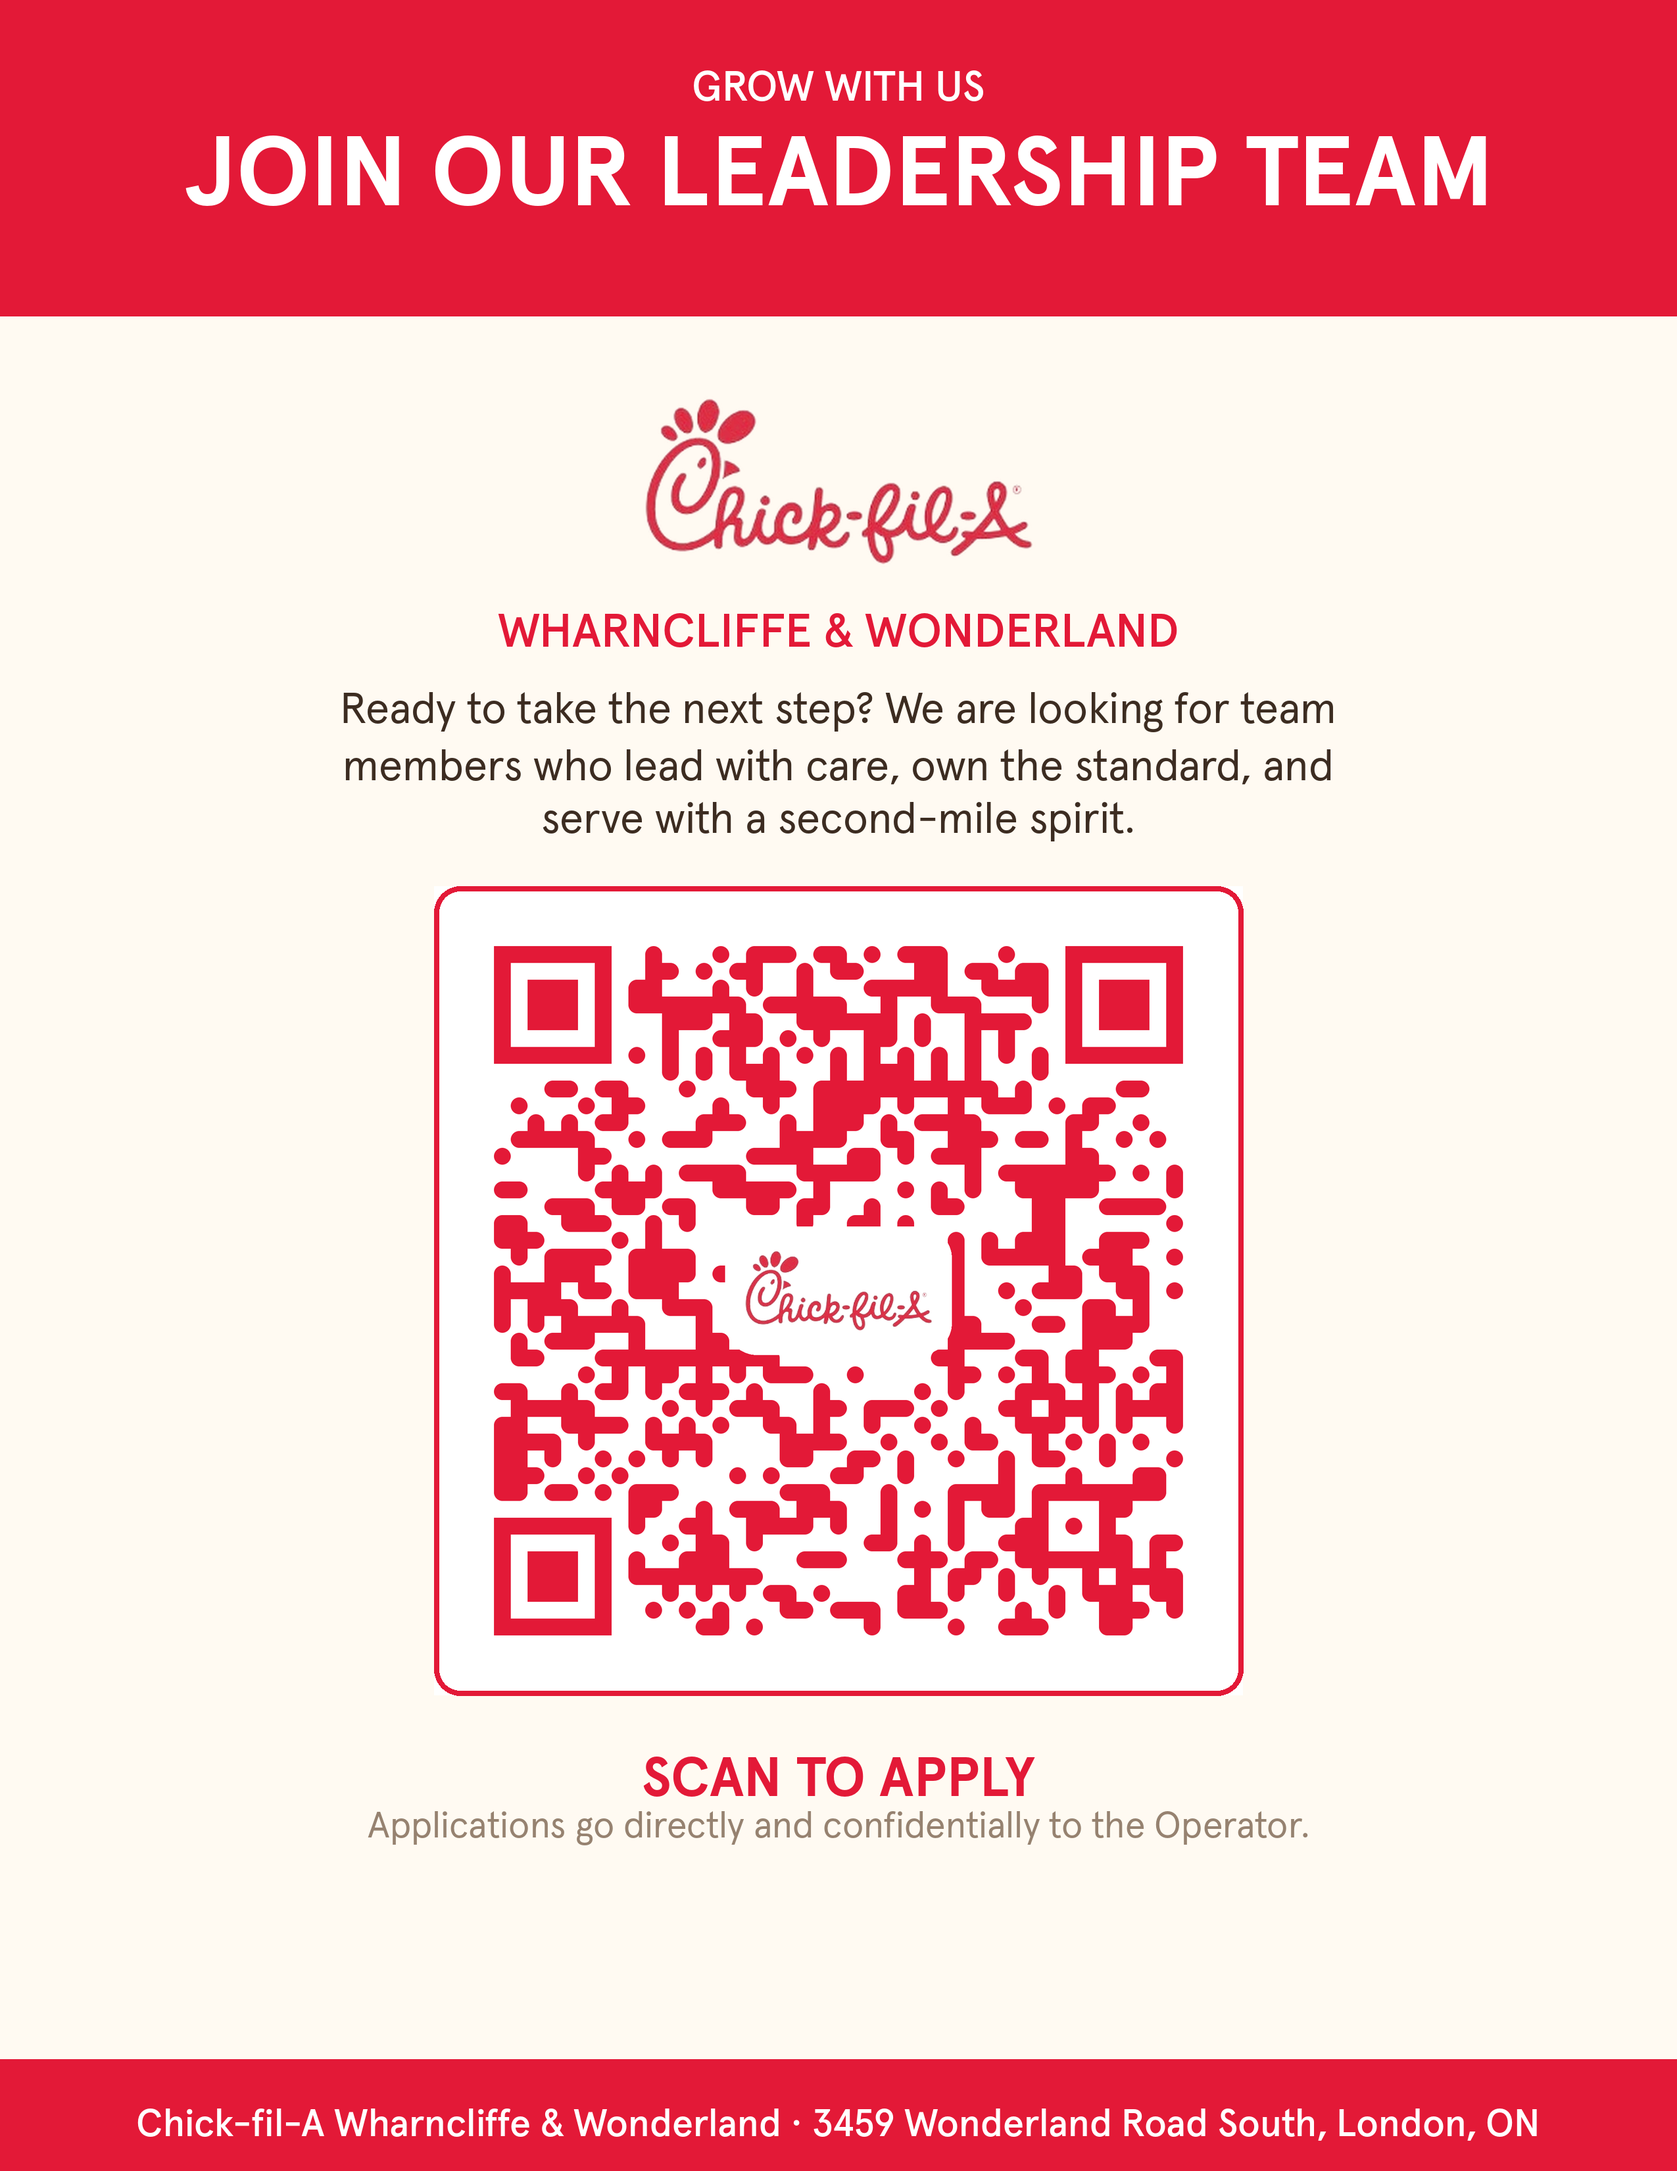
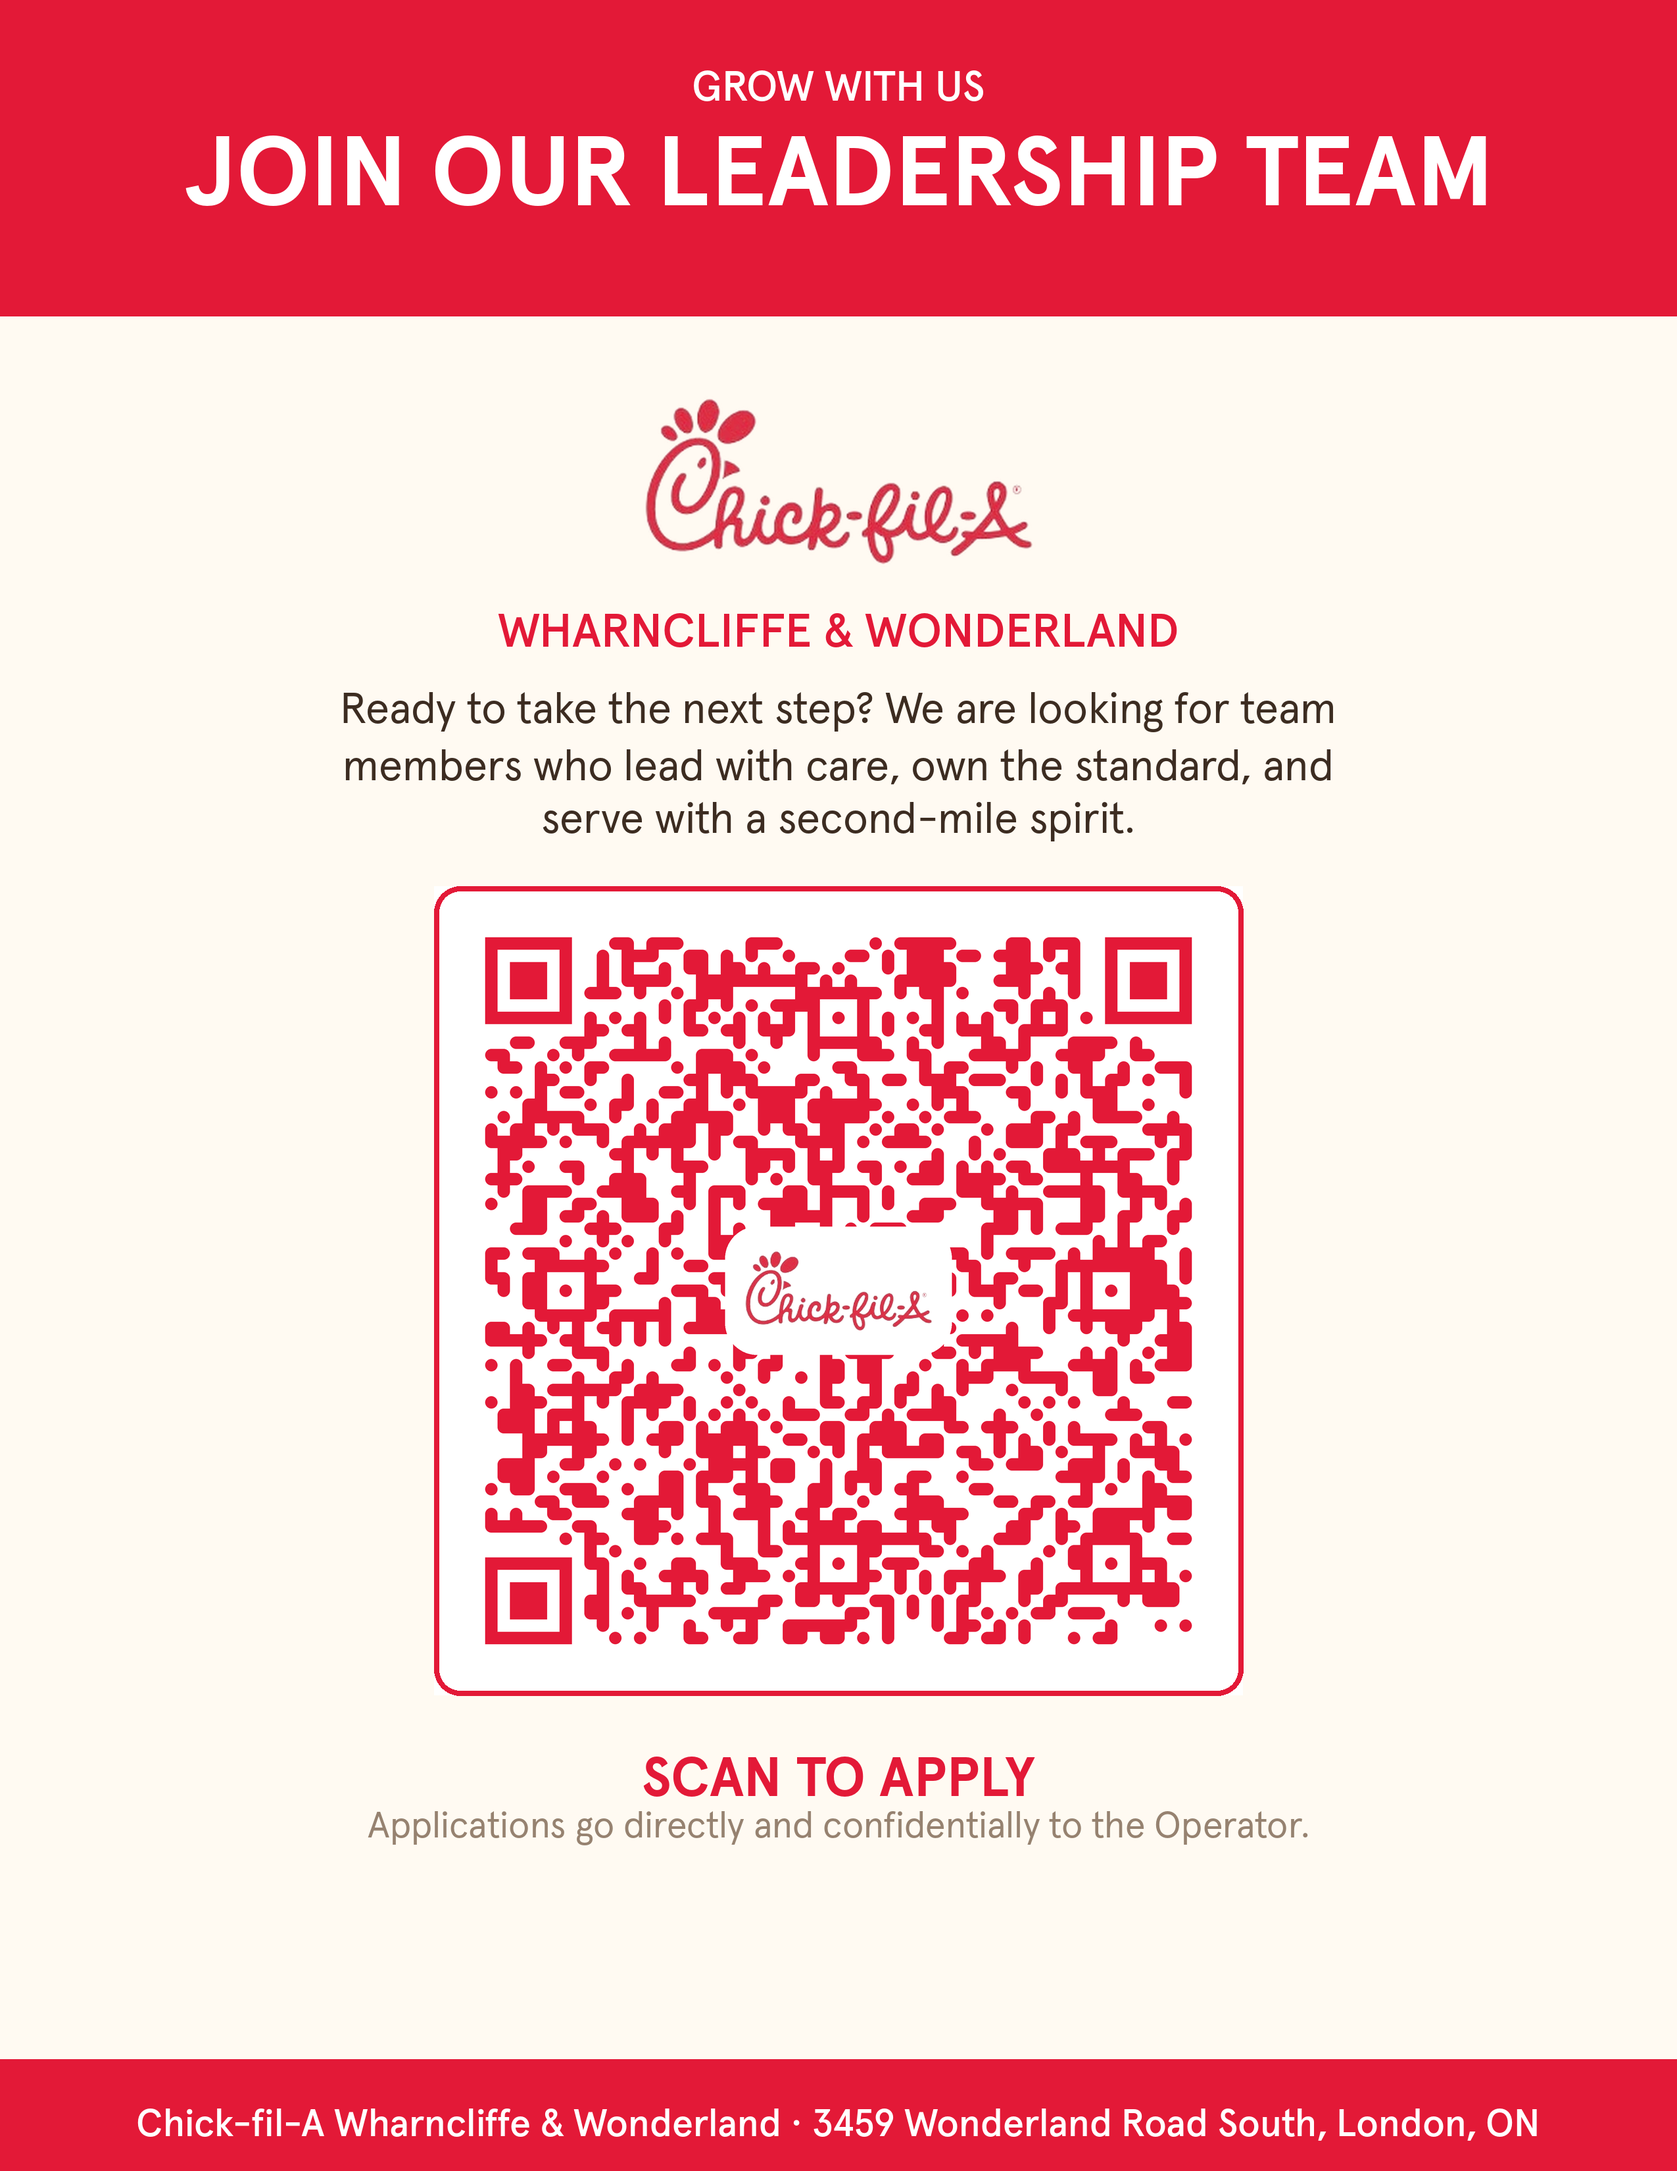
Point leadership QR code and poster at the live Google Form (#3)
The application now runs as a Google Form owned by the store's marketing
account, so responses collect natively in Google Forms. Regenerated the
QR code and poster to target the form's responder URL, made that URL the
generator's default, and documented the Flask /apply route as a fallback.

Claude-Session: https://claude.ai/code/session_016TyP1xa4FwT4oevgV8vBG8

Changed region(s): [[0.2788, 0.4058, 0.7125, 0.7803]]

diff --git a/scripts/generate_leadership_qr.py b/scripts/generate_leadership_qr.py
@@ -31,7 +31,8 @@ INK = (60, 44, 33)
 SOFT = (150, 130, 112)
 WHITE = (255, 255, 255)
 
-DEFAULT_URL = "https://cfa-sidekick-production.onrender.com/apply"
+DEFAULT_URL = ("https://docs.google.com/forms/d/e/"
+               "1FAIpQLSeKDuQ5MqB15tK24p_l2xr-NHsTDXXgapto5KJvNEsIHEOIfw/viewform")
 REPO_ROOT = os.path.dirname(os.path.dirname(os.path.abspath(__file__)))
 OUT_DIR = os.path.join(REPO_ROOT, "assets", "leadership-qr")
 LOGO_PATH = os.environ.get(

diff --git a/CLAUDE.md b/CLAUDE.md
@@ -25,11 +25,15 @@ Canada.
 
 ## Leadership application form
 
-- `GET/POST /apply` — public, CFA-branded leadership application form
-  (templates in `templates/`). Submissions are emailed privately to the
-  Operator via FormSubmit (`APPLICATION_EMAIL`, default
-  joshua.huesser@cfafranchisee.ca) and always logged in full to Render logs
-  as a backup. Never post applications to the team GroupMe.
+- The live application form is a Google Form owned by
+  marketing.cfalondon@gmail.com ("Leadership Application — Chick-fil-A
+  Wharncliffe & Wonderland"); responses collect there. The committed QR
+  code and poster in `assets/leadership-qr/` point at it.
 - `scripts/generate_leadership_qr.py` regenerates the branded QR code and
-  print poster in `assets/leadership-qr/` (pass the form URL as an argument
-  if the Render URL changes).
+  print poster; it defaults to the live Google Form responder URL (pass a
+  different URL as an argument if the form ever moves).
+- `GET/POST /apply` — CFA-branded fallback form served by the Flask app.
+  Submissions are emailed privately to the Operator via FormSubmit
+  (`APPLICATION_EMAIL`, default joshua.huesser@cfafranchisee.ca) and logged
+  in full to Render logs as a backup. Never post applications to the team
+  chat.
